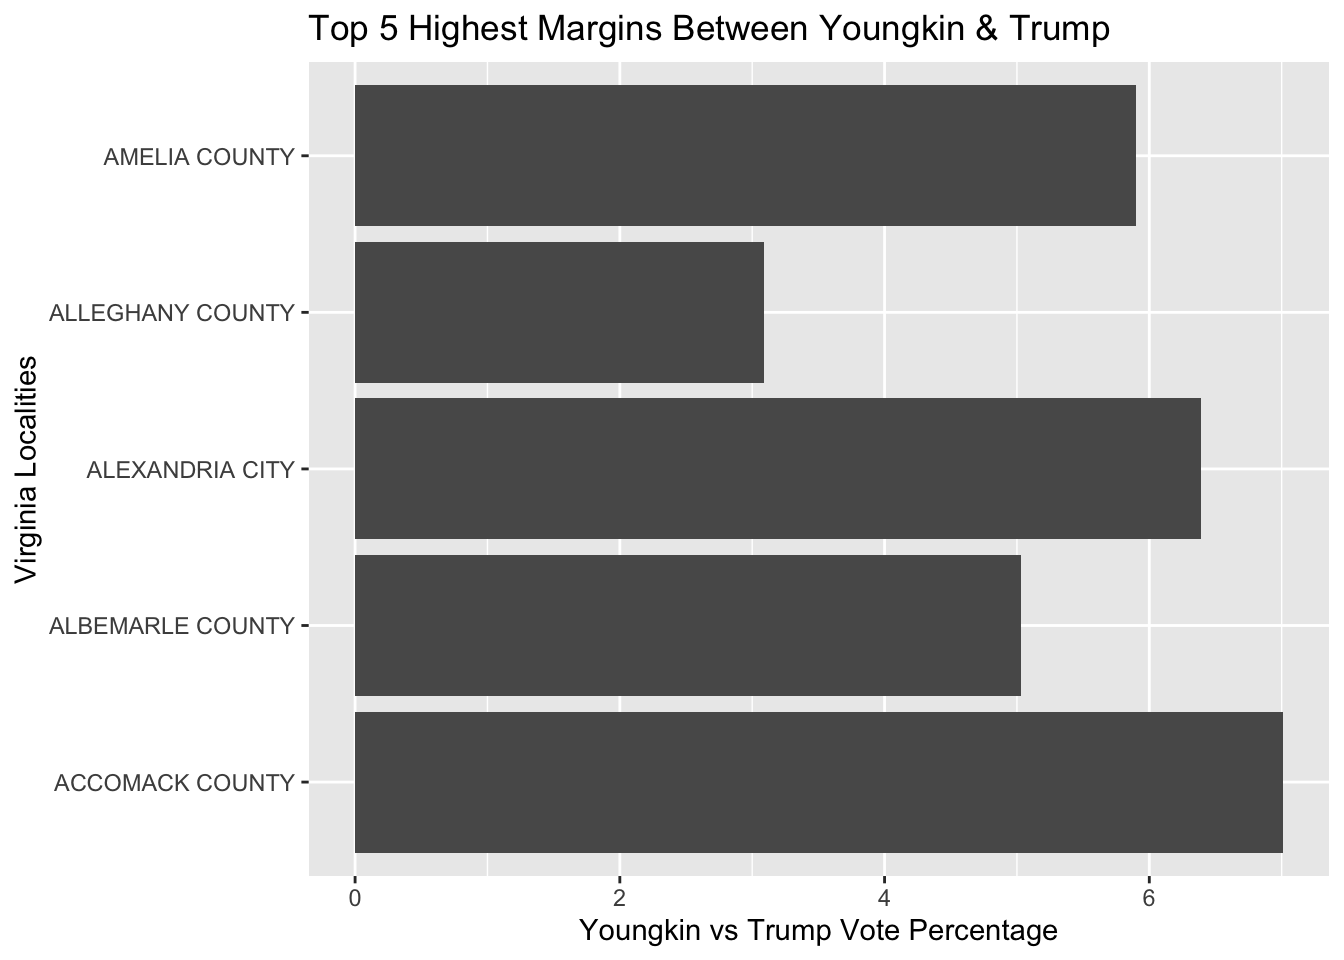
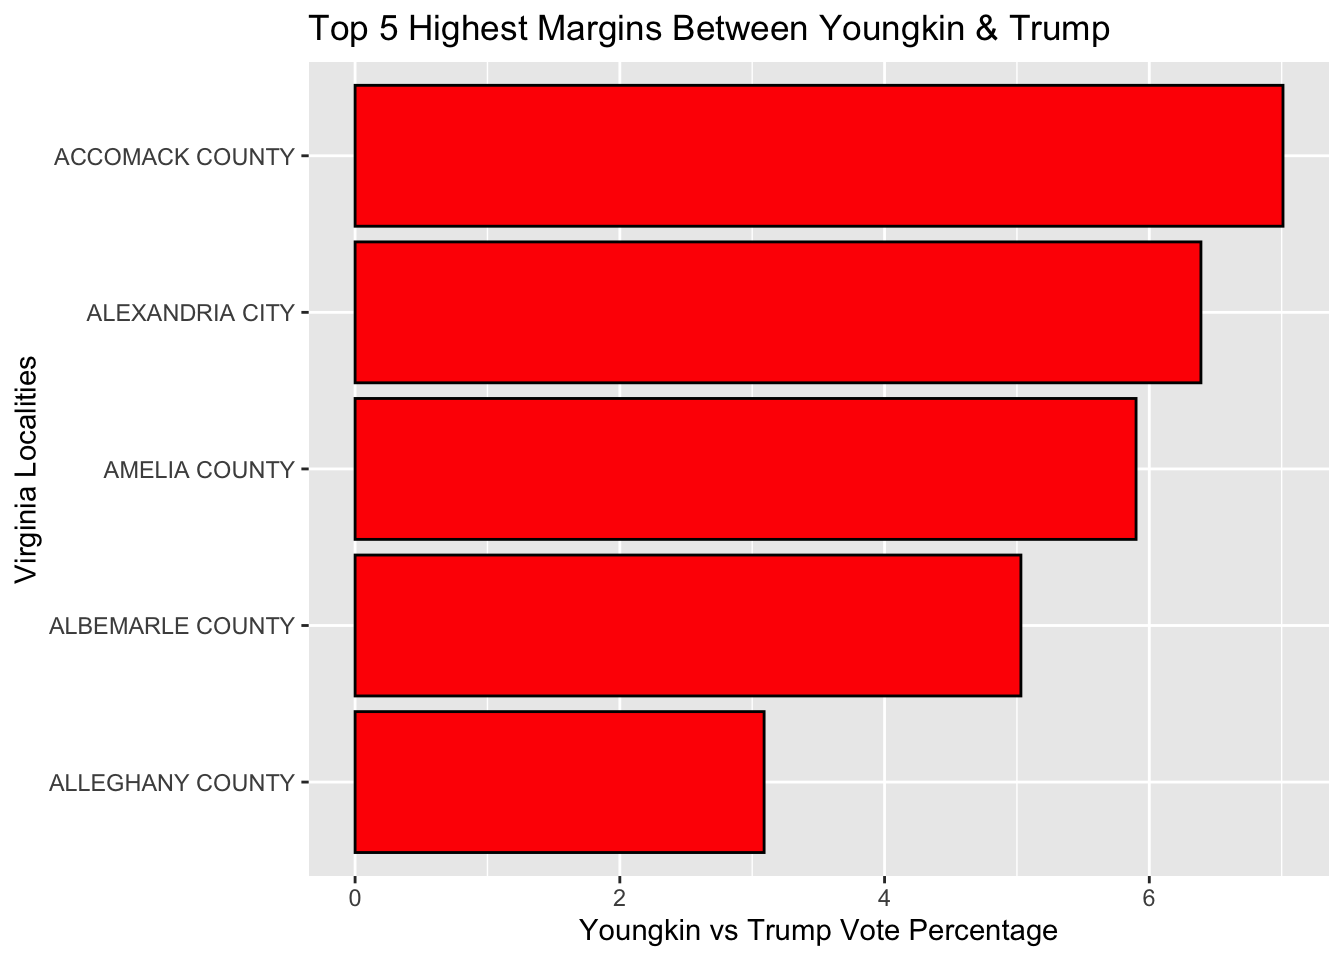
final commit!!!

diff --git a/docs/electionproject.html b/docs/electionproject.html
@@ -202,7 +202,7 @@ code span.wa { color: #60a0b0; font-weight: bold; font-style: italic; } /* Warni
 <div class="sourceCode cell-code" id="cb2"><pre class="sourceCode r code-with-copy"><code class="sourceCode r"><span id="cb2-1"><a href="#cb2-1" aria-hidden="true" tabindex="-1"></a><span class="co"># Next, create a well-labled chart to visualize use the data you just made</span></span>
 <span id="cb2-2"><a href="#cb2-2" aria-hidden="true" tabindex="-1"></a><span class="co"># You will create a bar or column chart using the ggplot2 package. Be sure to properly label each axis and give the chart its own title.</span></span>
 <span id="cb2-3"><a href="#cb2-3" aria-hidden="true" tabindex="-1"></a></span>
-<span id="cb2-4"><a href="#cb2-4" aria-hidden="true" tabindex="-1"></a>youngkintrumppercentage <span class="sc">%&gt;%</span> <span class="fu">ggplot</span>(<span class="fu">aes</span>(<span class="at">x =</span> locality, <span class="at">y =</span> youngkin_vs_trump)) <span class="sc">+</span> <span class="fu">geom_col</span>() <span class="sc">+</span> <span class="fu">coord_flip</span>() <span class="sc">+</span> <span class="fu">scale_y_continuous</span>(<span class="at">name =</span> <span class="st">"Youngkin vs Trump Vote Percentage"</span>) <span class="sc">+</span> <span class="fu">scale_x_discrete</span>(<span class="at">name =</span><span class="st">"Virginia Localities"</span>) <span class="sc">+</span> <span class="fu">labs</span>(<span class="at">title =</span> <span class="st">"Top 5 Highest Margins Between Youngkin &amp; Trump"</span>)</span></code><button title="Copy to Clipboard" class="code-copy-button"><i class="bi"></i></button></pre></div>
+<span id="cb2-4"><a href="#cb2-4" aria-hidden="true" tabindex="-1"></a>youngkintrumppercentage <span class="sc">%&gt;%</span> <span class="fu">ggplot</span>(<span class="fu">aes</span>(<span class="at">x =</span> <span class="fu">reorder</span> (locality,youngkin_vs_trump), <span class="at">y =</span> youngkin_vs_trump)) <span class="sc">+</span> <span class="fu">geom_col</span>(<span class="at">color =</span> <span class="st">"black"</span>, <span class="at">fill =</span> <span class="st">"red"</span>) <span class="sc">+</span> <span class="fu">coord_flip</span>() <span class="sc">+</span>  <span class="fu">scale_y_continuous</span>(<span class="at">name =</span> <span class="st">"Youngkin vs Trump Vote Percentage"</span>) <span class="sc">+</span> <span class="fu">scale_x_discrete</span>(<span class="at">name =</span><span class="st">"Virginia Localities"</span>) <span class="sc">+</span> <span class="fu">labs</span>(<span class="at">title =</span> <span class="st">"Top 5 Highest Margins Between Youngkin &amp; Trump"</span>)</span></code><button title="Copy to Clipboard" class="code-copy-button"><i class="bi"></i></button></pre></div>
 <div class="cell-output-display">
 <p><img src="electionproject_files/figure-html/unnamed-chunk-2-1.png" class="img-fluid" width="672"></p>
 </div>
@@ -211,12 +211,12 @@ code span.wa { color: #60a0b0; font-weight: bold; font-style: italic; } /* Warni
 <div class="sourceCode cell-code" id="cb3"><pre class="sourceCode r code-with-copy"><code class="sourceCode r"><span id="cb3-1"><a href="#cb3-1" aria-hidden="true" tabindex="-1"></a><span class="co"># Now, create another chart, but this time to show the top 5 counties where Youngkin got the highest percentage of the vote.</span></span>
 <span id="cb3-2"><a href="#cb3-2" aria-hidden="true" tabindex="-1"></a><span class="co"># In order to do so you must create a new column and table that shows the top five counties where Youngkin did best. Use the mutate and head functions again. </span></span>
 <span id="cb3-3"><a href="#cb3-3" aria-hidden="true" tabindex="-1"></a></span>
-<span id="cb3-4"><a href="#cb3-4" aria-hidden="true" tabindex="-1"></a>top5countiesyoungkin <span class="ot">&lt;-</span> joined_vacomparison <span class="sc">%&gt;%</span> <span class="fu">mutate</span>(<span class="at">youngkintop5 =</span> pct_youngkin) <span class="sc">%&gt;%</span> <span class="fu">head</span>(<span class="dv">5</span>)</span></code><button title="Copy to Clipboard" class="code-copy-button"><i class="bi"></i></button></pre></div>
+<span id="cb3-4"><a href="#cb3-4" aria-hidden="true" tabindex="-1"></a>top5countiesyoungkin <span class="ot">&lt;-</span> joined_vacomparison <span class="sc">%&gt;%</span> <span class="fu">mutate</span>(<span class="at">youngkintop5 =</span> pct_youngkin) <span class="sc">%&gt;%</span> <span class="fu">arrange</span>(<span class="fu">desc</span>(youngkintop5)) <span class="sc">%&gt;%</span> <span class="fu">head</span>(<span class="dv">5</span>)</span></code><button title="Copy to Clipboard" class="code-copy-button"><i class="bi"></i></button></pre></div>
 </div>
 <div class="cell">
 <div class="sourceCode cell-code" id="cb4"><pre class="sourceCode r code-with-copy"><code class="sourceCode r"><span id="cb4-1"><a href="#cb4-1" aria-hidden="true" tabindex="-1"></a><span class="co"># Now its time to create the bar/column chart with the new data! Again, use ggplot2 to make the chart and give proper axis and chart titles.</span></span>
 <span id="cb4-2"><a href="#cb4-2" aria-hidden="true" tabindex="-1"></a></span>
-<span id="cb4-3"><a href="#cb4-3" aria-hidden="true" tabindex="-1"></a>top5countiesyoungkin <span class="sc">%&gt;%</span>  <span class="fu">ggplot</span>(<span class="fu">aes</span>(<span class="at">x =</span> locality, <span class="at">y =</span> youngkintop5)) <span class="sc">+</span> <span class="fu">geom_col</span>() <span class="sc">+</span> <span class="fu">coord_flip</span>() <span class="sc">+</span> <span class="fu">scale_y_continuous</span>(<span class="at">name =</span> <span class="st">"Youngkin's Percentage of the Vote"</span>) <span class="sc">+</span> <span class="fu">scale_x_discrete</span>(<span class="at">name =</span> <span class="st">"Virginia Localities"</span>) <span class="sc">+</span> <span class="fu">labs</span>(<span class="at">title =</span> <span class="st">"Youngkin's Top 5 Victories"</span>)</span></code><button title="Copy to Clipboard" class="code-copy-button"><i class="bi"></i></button></pre></div>
+<span id="cb4-3"><a href="#cb4-3" aria-hidden="true" tabindex="-1"></a>top5countiesyoungkin <span class="sc">%&gt;%</span>  <span class="fu">ggplot</span>(<span class="fu">aes</span>(<span class="at">x =</span> <span class="fu">reorder</span> (locality, youngkintop5), <span class="at">y =</span> youngkintop5)) <span class="sc">+</span> <span class="fu">geom_col</span>(<span class="at">color =</span> <span class="st">"black"</span>, <span class="at">fill =</span> <span class="st">"red"</span>) <span class="sc">+</span> <span class="fu">coord_flip</span>() <span class="sc">+</span> <span class="fu">scale_y_continuous</span>(<span class="at">name =</span> <span class="st">"Youngkin's Percentage of the Vote"</span>, <span class="at">breaks =</span> <span class="fu">seq</span>(<span class="dv">0</span>, <span class="dv">100</span>, <span class="dv">25</span>)) <span class="sc">+</span> <span class="fu">scale_x_discrete</span>(<span class="at">name =</span> <span class="st">"Virginia Localities"</span>) <span class="sc">+</span> <span class="fu">labs</span>(<span class="at">title =</span> <span class="st">"Youngkin's Top 5 Victories"</span>)</span></code><button title="Copy to Clipboard" class="code-copy-button"><i class="bi"></i></button></pre></div>
 <div class="cell-output-display">
 <p><img src="electionproject_files/figure-html/unnamed-chunk-4-1.png" class="img-fluid" width="672"></p>
 </div>
@@ -225,18 +225,48 @@ code span.wa { color: #60a0b0; font-weight: bold; font-style: italic; } /* Warni
 <div class="sourceCode cell-code" id="cb5"><pre class="sourceCode r code-with-copy"><code class="sourceCode r"><span id="cb5-1"><a href="#cb5-1" aria-hidden="true" tabindex="-1"></a><span class="co"># Create another table that shows the top 5 counties based on where the other candidate, Mcauliffe, got the highest percentage of the vote. </span></span>
 <span id="cb5-2"><a href="#cb5-2" aria-hidden="true" tabindex="-1"></a><span class="co"># Again, you must create a new column and table that shows the top five counties where Mcauliffe did best. Use mutate again to rename the column. You should also clean up the data set, so filter out the other data from the original table that is not relevant to Mcauliffe's results using the select function. Use the head function to view the table you just created.</span></span>
 <span id="cb5-3"><a href="#cb5-3" aria-hidden="true" tabindex="-1"></a></span>
-<span id="cb5-4"><a href="#cb5-4" aria-hidden="true" tabindex="-1"></a>top5countiesmcauliffe <span class="ot">&lt;-</span> joined_vacomparison <span class="sc">%&gt;%</span> <span class="fu">mutate</span>(<span class="at">mcauliffe_percentage_of_vote =</span> pct_mcauliffe, <span class="at">mcauliffe_number_of_votes =</span> mcauliffe) <span class="sc">%&gt;%</span> <span class="fu">head</span>(<span class="dv">5</span>) <span class="sc">%&gt;%</span> <span class="fu">select</span>(<span class="sc">-</span>biden, <span class="sc">-</span>trump, <span class="sc">-</span>biden_pct, <span class="sc">-</span>trump_pct, <span class="sc">-</span>youngkin, <span class="sc">-</span>pct_youngkin, <span class="sc">-</span>mcauliffe, <span class="sc">-</span>pct_mcauliffe)</span>
+<span id="cb5-4"><a href="#cb5-4" aria-hidden="true" tabindex="-1"></a>top5countiesmcauliffe <span class="ot">&lt;-</span> joined_vacomparison <span class="sc">%&gt;%</span> <span class="fu">mutate</span>(<span class="at">mcauliffe_percentage_of_vote =</span> pct_mcauliffe, <span class="at">mcauliffe_number_of_votes =</span> mcauliffe) <span class="sc">%&gt;%</span> <span class="fu">arrange</span>(<span class="fu">desc</span>(mcauliffe_percentage_of_vote)) <span class="sc">%&gt;%</span> <span class="fu">arrange</span>(<span class="fu">desc</span>(mcauliffe_number_of_votes)) <span class="sc">%&gt;%</span> <span class="fu">head</span>(<span class="dv">5</span>) <span class="sc">%&gt;%</span> <span class="fu">select</span>(<span class="sc">-</span>biden, <span class="sc">-</span>trump, <span class="sc">-</span>biden_pct, <span class="sc">-</span>trump_pct, <span class="sc">-</span>youngkin, <span class="sc">-</span>pct_youngkin, <span class="sc">-</span>mcauliffe, <span class="sc">-</span>pct_mcauliffe)</span>
 <span id="cb5-5"><a href="#cb5-5" aria-hidden="true" tabindex="-1"></a></span>
 <span id="cb5-6"><a href="#cb5-6" aria-hidden="true" tabindex="-1"></a><span class="fu">head</span>(top5countiesmcauliffe)</span></code><button title="Copy to Clipboard" class="code-copy-button"><i class="bi"></i></button></pre></div>
 <div class="cell-output cell-output-stdout">
 <pre><code># A tibble: 5 × 3
-  locality         mcauliffe_percentage_of_vote mcauliffe_number_of_votes
-  &lt;chr&gt;                                   &lt;dbl&gt;                     &lt;int&gt;
-1 ACCOMACK COUNTY                          38.4                      4948
-2 ALBEMARLE COUNTY                         62.0                     31919
-3 ALEXANDRIA CITY                          75.2                     43866
-4 ALLEGHANY COUNTY                         25.0                      1518
-5 AMELIA COUNTY                            25.4                      1617</code></pre>
+  locality              mcauliffe_percentage_of_vote mcauliffe_number_of_votes
+  &lt;chr&gt;                                        &lt;dbl&gt;                     &lt;int&gt;
+1 FAIRFAX COUNTY                                64.9                    286316
+2 LOUDOUN COUNTY                                55.2                     89390
+3 PRINCE WILLIAM COUNTY                         57.0                     87352
+4 HENRICO COUNTY                                58.7                     81409
+5 CHESTERFIELD COUNTY                           47.4                     74085</code></pre>
+</div>
+</div>
+<div class="cell">
+<div class="sourceCode cell-code" id="cb7"><pre class="sourceCode r code-with-copy"><code class="sourceCode r"><span id="cb7-1"><a href="#cb7-1" aria-hidden="true" tabindex="-1"></a><span class="co"># In the excercise showing the highest margins between Trump and Youngkin's percent of the vote, I found it interesting that Trump did better in certain counties than Youngkin, even though they are both Republican candidates. But I wanted to see if the counties where Trump did best aligned with where Youngkin did best. From the original table I made you can see Youngkin did best in Lee, Scott, Tazewell, Bland, and Russell counties. </span></span>
+<span id="cb7-2"><a href="#cb7-2" aria-hidden="true" tabindex="-1"></a><span class="co"># I decided to analyze the counties that Youngkin did best in compared to the counties that Trump did best in. So I create a table showing the top 5 counties where Trump got the highest percentage of the vote. I found that Trump's most successful counties were Lee, Buchanan, Bland, Scott and Tazewell counties. This showed me that there were counties where Trump and Youngkin both did there best in: Lee, Scott, Tazewell and Bland counties. But from my chart I did earlier it showed they had a high percent difference in Radford City, King George County, Charlotte County, Mecklenberg County, and Prince Edward County. It is odd that they did not get a similar number or percent of the vote in each county. This is probably explained by the differences in Trump and Youngkin's campaigns and their political ideaology.</span></span>
+<span id="cb7-3"><a href="#cb7-3" aria-hidden="true" tabindex="-1"></a></span>
+<span id="cb7-4"><a href="#cb7-4" aria-hidden="true" tabindex="-1"></a>top5countiestrump <span class="ot">&lt;-</span> joined_vacomparison <span class="sc">%&gt;%</span> <span class="fu">mutate</span>(<span class="at">trump_percentage_of_vote =</span> trump_pct) <span class="sc">%&gt;%</span> <span class="fu">arrange</span>(<span class="fu">desc</span>(trump_percentage_of_vote)) <span class="sc">%&gt;%</span> <span class="fu">head</span>(<span class="dv">5</span>) <span class="sc">%&gt;%</span> <span class="fu">select</span>(<span class="sc">-</span>youngkin, <span class="sc">-</span>trump, <span class="sc">-</span>biden, <span class="sc">-</span>pct_youngkin, <span class="sc">-</span>biden_pct, <span class="sc">-</span>mcauliffe, <span class="sc">-</span>trump_pct, <span class="sc">-</span>pct_mcauliffe)</span>
+<span id="cb7-5"><a href="#cb7-5" aria-hidden="true" tabindex="-1"></a></span>
+<span id="cb7-6"><a href="#cb7-6" aria-hidden="true" tabindex="-1"></a><span class="fu">head</span>(top5countiestrump)</span></code><button title="Copy to Clipboard" class="code-copy-button"><i class="bi"></i></button></pre></div>
+<div class="cell-output cell-output-stdout">
+<pre><code># A tibble: 5 × 2
+  locality        trump_percentage_of_vote
+  &lt;chr&gt;                              &lt;dbl&gt;
+1 LEE COUNTY                          84.1
+2 BUCHANAN COUNTY                     83.5
+3 BLAND COUNTY                        83.4
+4 SCOTT COUNTY                        83.4
+5 TAZEWELL COUNTY                     83.1</code></pre>
+</div>
+</div>
+<div class="cell">
+<div class="sourceCode cell-code" id="cb9"><pre class="sourceCode r code-with-copy"><code class="sourceCode r"><span id="cb9-1"><a href="#cb9-1" aria-hidden="true" tabindex="-1"></a><span class="co"># I was intrugued by the differences in the two Republican candidates in Virginia's election, so I wanted to see how the Democrat candidates compared.</span></span>
+<span id="cb9-2"><a href="#cb9-2" aria-hidden="true" tabindex="-1"></a><span class="co"># I compared Biden's percentage of the vote to Mcauliffe's by creating a bar chart like the first problem in this document. I found that the margins of the highest difference were around the same with a mean of 8.8% for the Republicans and a mean of 8.1% for the Democrats.</span></span>
+<span id="cb9-3"><a href="#cb9-3" aria-hidden="true" tabindex="-1"></a><span class="co"># I further compared this data and found that the counties where Trump and Youngkin had the highest difference in vote percentage did best was similar to the that same data for Biden and Mcauliffe. There was some overlap with the counties: Charlotee, Mecklenberg, and Radford. This makes sense that where Biden/Mcauliffe did worst Trump/Youngkin did best and vice versa.</span></span>
+<span id="cb9-4"><a href="#cb9-4" aria-hidden="true" tabindex="-1"></a></span>
+<span id="cb9-5"><a href="#cb9-5" aria-hidden="true" tabindex="-1"></a>mcauliffebidenpercentage <span class="ot">&lt;-</span> joined_vacomparison <span class="sc">%&gt;%</span> <span class="fu">mutate</span>(<span class="at">mcauliffe_vs_biden =</span> biden_pct <span class="sc">-</span> pct_mcauliffe) <span class="sc">%&gt;%</span> <span class="fu">arrange</span>(<span class="fu">desc</span>(mcauliffe_vs_biden)) <span class="sc">%&gt;%</span> <span class="fu">head</span>(<span class="dv">5</span>)</span>
+<span id="cb9-6"><a href="#cb9-6" aria-hidden="true" tabindex="-1"></a></span>
+<span id="cb9-7"><a href="#cb9-7" aria-hidden="true" tabindex="-1"></a>mcauliffebidenpercentage <span class="sc">%&gt;%</span> <span class="fu">ggplot</span>(<span class="fu">aes</span>(<span class="at">x =</span> <span class="fu">reorder</span> (locality, mcauliffe_vs_biden), <span class="at">y =</span> mcauliffe_vs_biden)) <span class="sc">+</span> <span class="fu">geom_col</span>(<span class="at">color =</span> <span class="st">"black"</span>, <span class="at">fill =</span> <span class="st">"blue"</span>) <span class="sc">+</span> <span class="fu">coord_flip</span>() <span class="sc">+</span>  <span class="fu">scale_y_continuous</span>(<span class="at">name =</span> <span class="st">"Biden vs Mcauliffe Vote Percentage"</span>) <span class="sc">+</span> <span class="fu">scale_x_discrete</span>(<span class="at">name =</span><span class="st">"Virginia Localities"</span>) <span class="sc">+</span> <span class="fu">labs</span>(<span class="at">title =</span> <span class="st">"Top 5 Highest Margins Between Biden &amp; Mcauliffe"</span>)</span></code><button title="Copy to Clipboard" class="code-copy-button"><i class="bi"></i></button></pre></div>
+<div class="cell-output-display">
+<p><img src="electionproject_files/figure-html/unnamed-chunk-7-1.png" class="img-fluid" width="672"></p>
 </div>
 </div>
 
